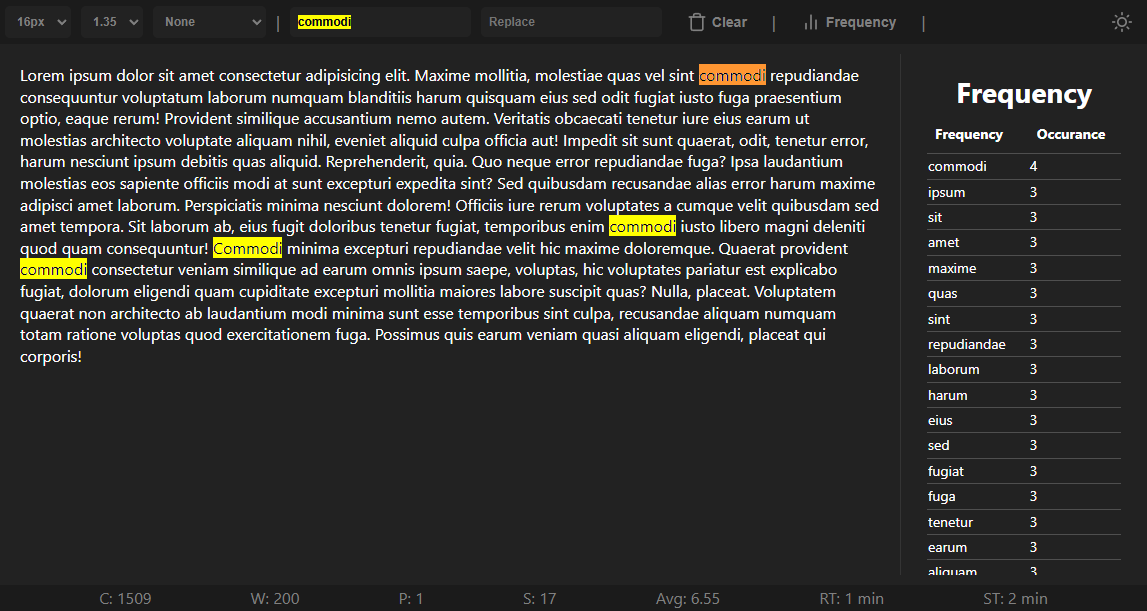
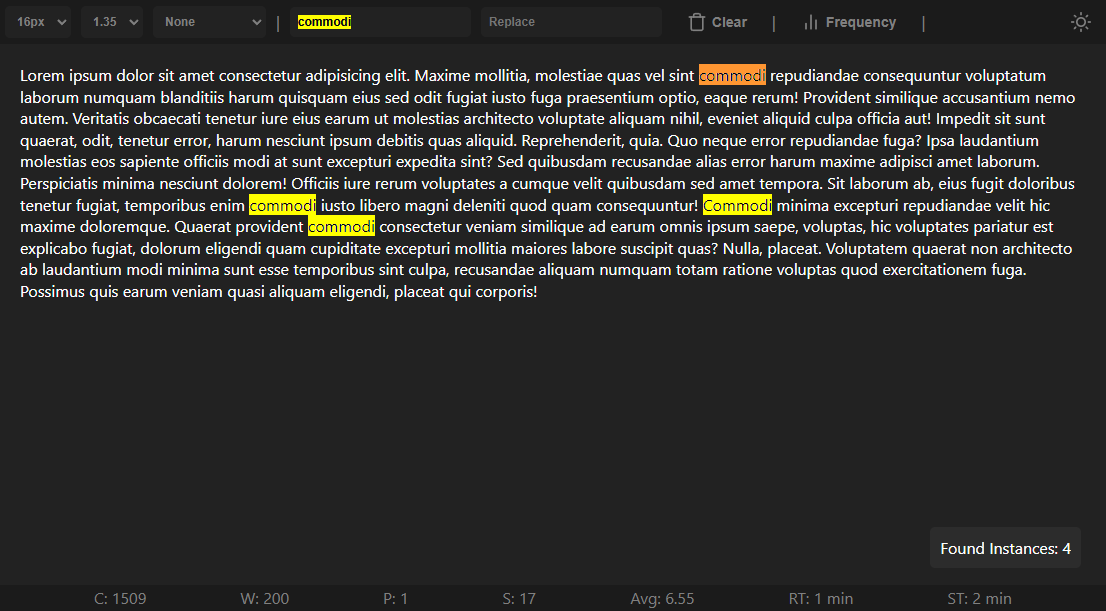
Improved searching experience

diff --git a/src/renderer/src/App.svelte b/src/renderer/src/App.svelte
@@ -19,6 +19,7 @@
   let frequencyData = {}
   let frequencyActive: boolean = false
   let theme: Theme = 'dark'
+  let foundInstances: number = 0
 
   function toggleTheme() {
     theme = theme === 'light' ? 'dark' : 'light'
@@ -37,6 +38,14 @@
   }
 
   function performSearchAndReplace() {
+    if (!text.includes(searchQuery)) {
+      searchQuery = ''
+      replaceQuery = ''
+      return
+    }
+
+    foundInstances = text.match(new RegExp(searchQuery, 'gi'))?.length || 0
+
     if (text && searchQuery && replaceQuery) {
       text = text.replace(new RegExp(searchQuery, 'gi'), replaceQuery)
       searchQuery = ''
@@ -140,6 +149,7 @@
   $: if (searchQuery === '') {
     searchQuery = ''
     ipcClear()
+    searchActive = false
   }
 </script>
 
@@ -192,6 +202,13 @@
       style={`font-size: ${textFormatting.textSize}; line-height: ${textFormatting.lineHeight};`}
     />
 
+    {#if searchActive}
+  <div class="search-info">
+    <span class="search-box">Found Instances: {foundInstances}</span>
+  </div>
+{/if}
+
+
     {#if frequencyActive}
       <div class="vertical"></div>
       <div class="horizontal"></div>
@@ -209,6 +226,12 @@
     <span>ST: {speechTime} min</span>
   </div>
 </div>
+
+<!-- {#if searchActive}
+  <div class="search-info">
+    <span class="search-box">Found Instances: {foundInstances}</span>
+  </div>
+{/if} -->
 
 <style>
   :global(::-webkit-scrollbar) {

diff --git a/src/renderer/src/assets/main.css b/src/renderer/src/assets/main.css
@@ -212,6 +212,21 @@ input[type="text"] {
   width: 25% !important;
 }
 
+.search-info {
+  position: absolute;
+  bottom: 50px;
+  right: 25px;
+}
+
+.search-box {
+  padding: 10px;
+  background-color: #2c2c2c;
+  color: white;
+  border-radius: 5px;
+  font-size: 16px;
+}
+
+
 @media (max-width: 1000px) {
   .theme {
     position: relative;
@@ -273,6 +288,10 @@ input[type="text"] {
   }
 
   .vertical {
+    display: none;
+  }
+
+  .search-info {
     display: none;
   }
 }
